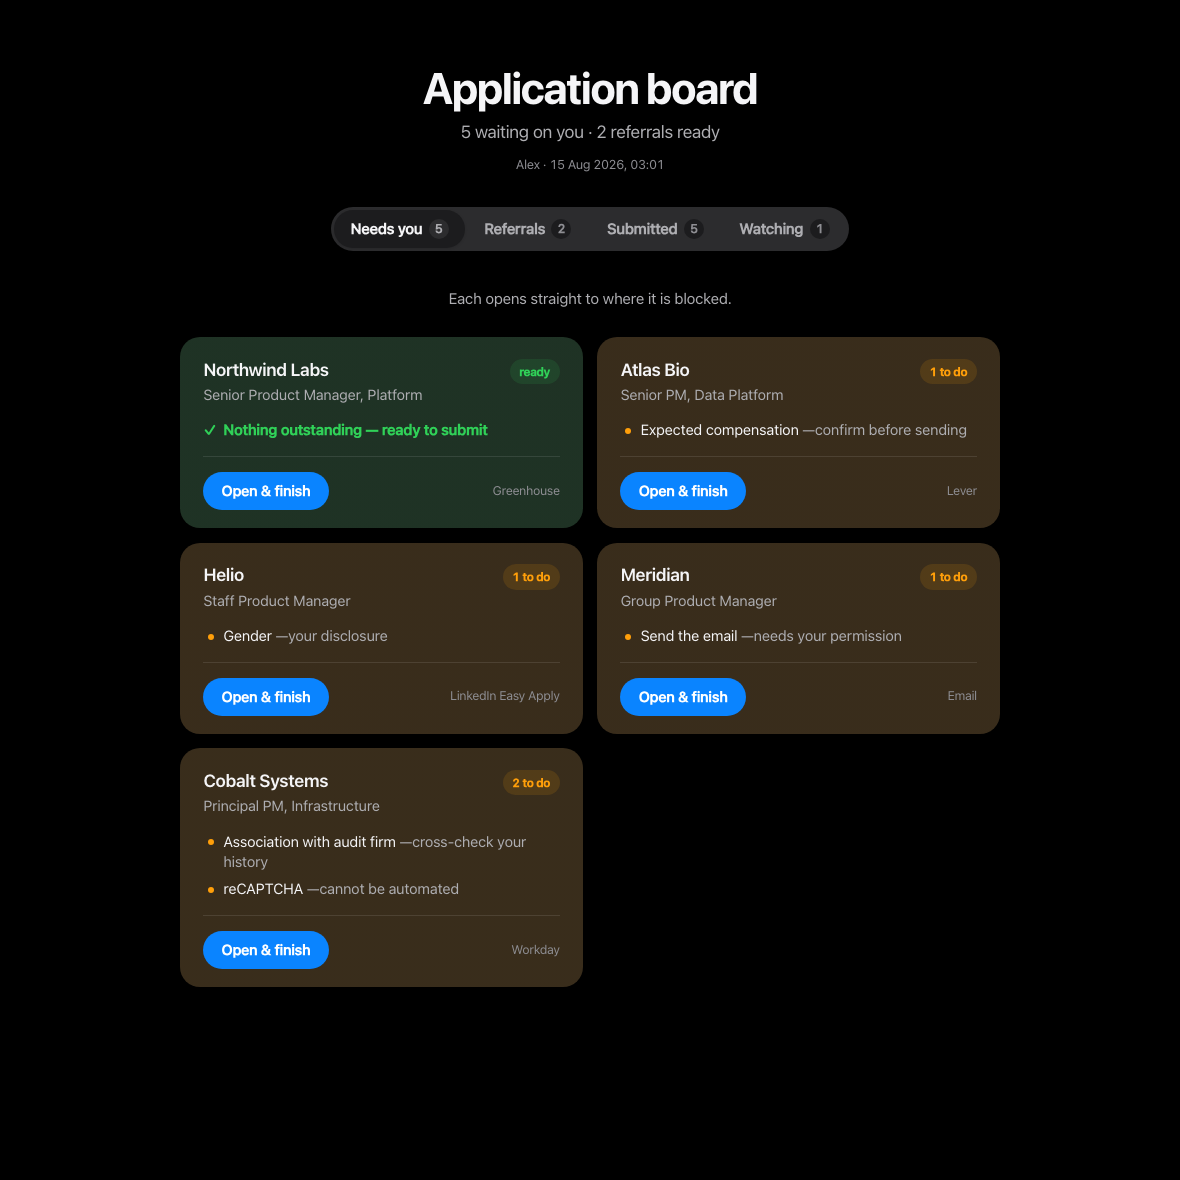
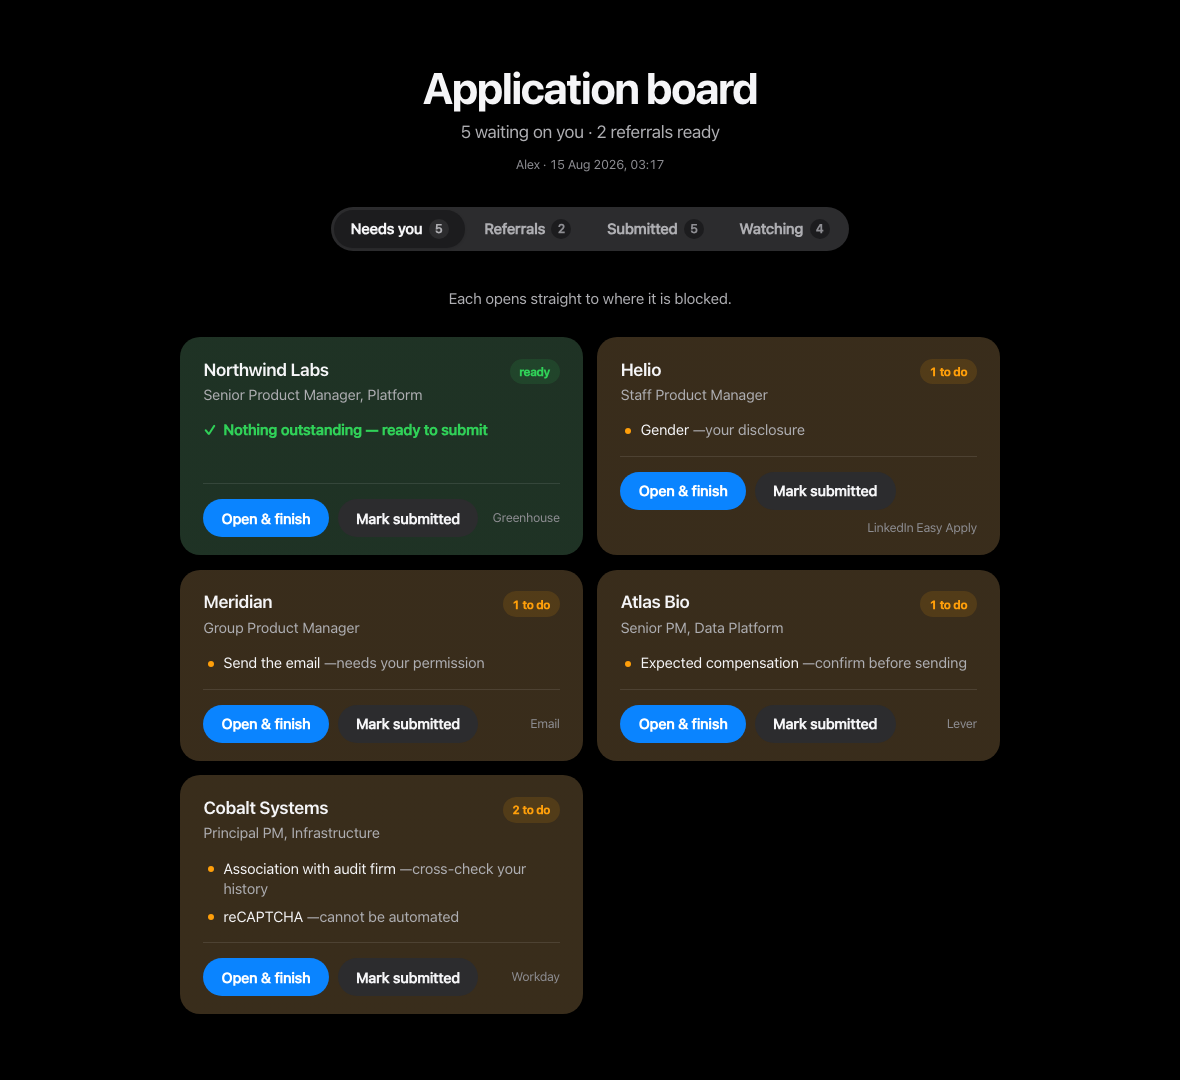
Rewrite README: picture-led, roughly a third the length
Three screenshots now carry the explanation of what the tool does, with
prose reduced to captions. The failure-mode section becomes a table, since
it was a list of paired cause and response all along.

Changed region(s): [[0.1525, 0.0611, 0.8542, 0.9472]]

diff --git a/README.md b/README.md
@@ -1,232 +1,69 @@
-# job-application
+# apply-for-me
 
-A [Claude Skill](https://docs.claude.com/en/docs/claude-code/skills) that runs your job search as a **standing agent** rather than a one-off command: it reads your resume once, interviews you once, then fills applications across LinkedIn Easy Apply, Greenhouse, Lever, Ashby, Workday, iCIMS, Google Careers and company forms, surfaces the people in your network who could refer you, and hands you a dashboard of what still needs a human.
-
-Every rule in it exists because something went wrong without it during real use. Those failure modes are documented below, since they are the interesting part.
-
-![The dashboard's Needs you tab, showing five applications with what is blocking each one](docs/needs-you.png)
-
----
-
-## Why this exists
-
-Job applications are a bad fit for naive automation. They are:
-
-- **Irreversible.** A wrong salary figure or an overstated year count follows you into interviews.
-- **Legally loaded.** Auditor-independence checks, government-official declarations, work authorization, truth attestations. These are compliance questions wearing the costume of screening questions.
-- **Deceptively labelled.** Titles routinely misrepresent the job.
-- **Full of hard stops.** CAPTCHAs, account creation, native OS file pickers.
-
-The temptation is to build something that blasts out applications. This skill deliberately does not. It optimises for *fewer interruptions* rather than *no human*, and it treats "never fabricate an answer" as the constraint that everything else bends around.
-
----
-
-## Install
+A [Claude Skill](https://docs.claude.com/en/docs/claude-code/skills) that runs your job search as a standing agent. Reads your resume once, interviews you once, then searches, applies, and hands you a board of what still needs a human.
 
 ```bash
 git clone https://github.com/YoursSarcastically/apply-for-me.git ~/.claude/skills/job-application
 ```
 
-Or drop the `job-application/` folder into `~/.claude/skills/`. Claude picks it up on the next session.
-
-Requires Python 3.9+ (standard library only, no dependencies) and a browser integration such as Claude in Chrome.
+Needs Python 3.9+ and the Claude for Chrome extension.
 
 ---
 
-## How it works
+## What you get
 
-```
-job-application/
-├── SKILL.md                  the instructions Claude follows
-├── scripts/
-│   ├── store.py              local profile, answers, history, sessions
-│   └── dashboard.py          builds the status artifact
-└── references/
-    ├── platforms.md          per-ATS quirks and expected blockers
-    └── storage.md            storage contract and confidence model
-```
+### Every blocked application, and exactly what is blocking it
 
-### Six phases
+![Needs you tab showing five application cards, each naming the specific missing field](docs/needs-you.png)
 
-**1. Intake, once.** You give it a resume. It extracts what it can, shows you what it got, then asks the questions resumes never answer but forms always demand: fixed versus total compensation, notice period, work authorization *per country*, relocation, per-role cities, education months, past audit-firm association, demographic preferences.
+Green means ready to submit. Each card names the field a human has to answer and why, then opens straight to that page. **Mark submitted** greys it out when you are done.
 
-That last cluster is the point. Most mid-application interruptions are avoidable — the information was knowable upfront. Front-loading it is what makes the rest low-touch.
+### Who can refer you, with the message already written
 
-**2. Finding roles.** Sweeps **many channels, not one site**: general aggregators, startup-native boards (YC, Wellfound, HN Who's Hiring), regional boards, and company ATS boards directly via `site:job-boards.greenhouse.io` style searches. Then **reads each full posting before shortlisting**, because titles lie (see below).
+![Referrals tab showing a first-degree contact and a network pool, each with a drafted message and copy button](docs/referrals.png)
 
-Searching only LinkedIn produces a specific false conclusion: that a role type barely exists, when the openings are on boards LinkedIn never indexed. A real sweep for senior AI product roles returned 1,000+ LinkedIn results that were mostly banking and insurance PM roles, while the AI-native openings sat elsewhere.
+A referral beats being applicant 201. It surfaces the connection *before* filling the form, drafts the note, and waits for you to send it.
 
-Public boards still have a ceiling, so the skill also covers what search structurally cannot reach:
+### Roles it found, and why each one is there
 
-- **Log in before sweeping.** Instahyre, Naukri, Cutshort and Wellfound show a fraction of listings to logged-out visitors. A logged-out search still returns results, just a thin and unrepresentative slice, which is what makes this easy to miss. Cheapest and largest single unlock.
-- **VC portfolio boards.** Funds publish job pages across their whole portfolio, carrying roles aggregators never see, skewed toward well-funded startups.
-- **Catch postings in their first hour.** Applicant count matters more than almost any other signal: three applicants at one hour old is a different proposition from 200+ at two weeks. Sort by recent, not relevance, since relevance ranking buries new postings.
-- **Recruiter outreach.** A large share of senior roles are filled before anything is published. No scraper reaches these. It is a structural limit, not a gap to engineer around.
+![Watching tab showing four roles with a note explaining why each was kept](docs/watching.png)
 
-The skill is also honest about stopping. When new searches keep returning roles already seen, it says so — past that point volume is motion, not progress, and the return shifts to converting what has already been found.
-
-**3. Referrals first.** For any role where you have a connection, it surfaces that *before* filling the form and drafts the outreach. A referral on a role with 200 applicants beats being applicant 201.
-
-**4. Filling.** Identifies the ATS, reads the relevant platform notes, fills from your stored profile, verifies every few fields. Never invents. Stops at legal declarations.
-
-**5. Dashboard.** Generates a self-contained status page showing what needs you, with a direct link to each blocked page.
-
-**6. Repeat.** The natural shape is a cycle, not a session. Sweep, dedupe against history, triage, apply where nothing is blocking, park what is blocked, republish the dashboard to the same URL, report in a few lines. Run it on demand or on a schedule.
-
-Steps 1 through 5 need no input, which is the whole return on the intake phase. A cycle that interrupts three times has usually skipped something intake should have captured.
-
-### It behaves as an agent, not a handler
-
-The objective is standing: get you into a better role while spending as little of your attention as possible. That changes defaults. It carries state across sessions in the store rather than the conversation, acts without checking in inside a cycle, and will tell you when the thing you asked for is not the thing that helps — if you ask for more roles when what you need is to send three referral messages, it says so.
-
-It also knows its limits and names them rather than working around them: credentials, CAPTCHAs, legal attestations, and anything it would have to invent.
-
-### Two kinds of memory
-
-The **application store** (`~/.job-application/`) holds operational state that churns: profile, answers, history, in-progress sessions.
-
-**Claude's own memory** holds durable facts that outlive the search: standing constraints, how you want the work done, that you are looking at all. The skill writes there deliberately and does not mirror application state into it, because a memory file full of stale statuses is worse than none — it reads as current.
-
-### The confidence model
-
-The part most likely to be useful elsewhere.
-
-Every stored value carries a state:
-
-| State | Meaning | Reused silently? |
-|---|---|---|
-| `confirmed` | You said it or approved it | Yes |
-| `inferred` | Claude derived it from context | **No** — re-shown each time |
-| `missing` | Unknown | No — asks |
-| `sensitive` | Pay, visa, demographics, disability | Never — confirmed every use |
-
-`inferred` is the one that matters. When a form demands a city for a job your resume only dates, that value is a guess. Without a label, the next session cannot distinguish it from fact, and a guess quietly hardens into a claim on your applications. The label is the whole defence.
-
-Sensitive values enforce **two separate permissions**: may I use this now, and may I store it. Permission to fill is not permission to remember.
+It sweeps LinkedIn, Indeed, YC, Wellfound, HN, regional boards and company ATS boards directly, then reads each full posting, because titles lie.
 
 ---
 
-## What went wrong to produce these rules
+## Why it works this way
 
-### Closing a form submitted it
+Every rule came from something going wrong in real use.
 
-On a LinkedIn Easy Apply flow with a Greenhouse backend, clicking the modal's **X to close** submitted the completed application. The assurance "I will stop before Submit" was structurally false, and a referral question that had deliberately been left blank went out unanswered.
-
-**Rule:** treat any interaction with a completed form as potentially final, verify afterwards, and never present "I won't click Submit" as a guarantee.
-
-### Titles do not describe the job
-
-- A req titled *"Product Manager, User Voice AI and Agentic Experiences"* was a feedback-ingestion platform role: APIs, serialization, distributed pipelines. No AI product ownership, and banded a level below what the title implied.
-- A posting listed **"Mumbai, Hybrid"** required **full relocation to Bangkok**, stated deep in the body.
-- *"Product Manager (Tech), $80/hr up to $1,600/week"* — AI-training data labelling.
-
-**Rule:** read the whole body before shortlisting, and surface title-body mismatches before spending effort.
-
-### Quotas are invisible until you have spent them
-
-One major employer allows **three applications per 30 days**. Nothing errors when you spend one badly — you simply have fewer chances, and no notification.
-
-**Rule:** detect quotas, raise them before committing a slot.
-
-### The employer already had stale data
-
-A careers profile still held a **two-year-old resume** under a previous job title, and the full name crammed into First Name with Last Name empty. Both would have gone out silently.
-
-**Rule:** audit prefilled ATS data before submitting.
-
-### Legal questions hide in screening sections
-
-One employer's form asked whether the candidate had **ever been associated with a named audit firm**, because that firm audits its parent company. The candidate had worked there years earlier, listed on the resume but easy to miss under a screening heading. Answering "no" would have been materially wrong, and it is an auditor-independence matter rather than a preference.
-
-**Rule:** cross-check declarations against work history, surface findings, let the human answer.
-
-### Referral signals were the best data on the page and nearly ignored
-
-One role had a **first-degree connection who was a Senior PM on that exact team**. Another had **eight connections at the company including the recruiter**. A third had **31 connections**. All of it sat unused next to a form.
-
-**Rule:** referral first, application second.
-
-### Every platform fails differently
-
-| Platform | Blocker |
+| What happened | What it does now |
 |---|---|
-| Greenhouse | reCAPTCHA at submit |
-| LinkedIn Easy Apply | iframe selects; **closing can submit** |
-| Google Careers | native OS file picker; 3-per-30-days |
-| iCIMS · SuccessFactors · Amazon | account creation |
-| Google Forms | Drive picker for uploads |
-
-**Rule:** identify the ATS, state the expected blockers upfront, stop guessing twenty actions in.
-
----
-
-## Storage
-
-Everything lives in `~/.job-application/`, owner-readable only (`0600`).
-
-```
-profile.json         identity, work history, education, skills
-answers.json         reusable answers with confidence states
-applications.jsonl   append-only event log
-sessions/            resumable in-progress applications
-```
-
-Reached only through `scripts/store.py`:
-
-```bash
-python3 scripts/store.py init
-python3 scripts/store.py profile-get
-python3 scripts/store.py answer-find --question "What is your notice period?"
-python3 scripts/store.py history-status      # latest event per application
-python3 scripts/store.py session-list
-```
-
-`history-status` is the guard against reapplying. `reviewed` means a form reached final review; `completed` means submission was confirmed or observed. Keeping them distinct is what prevents duplicates weeks later — and when it genuinely cannot tell, it records `reviewed` and says so, because an honest gap beats a confident wrong entry.
-
-Sessions store field *descriptions*, never values. Values live in the answer store where the confidence machinery is.
-
----
-
-## The dashboard
-
-```bash
-python3 scripts/dashboard.py --out dashboard.html
-```
-
-Self-contained HTML, no network calls, light and dark themes, four tabs.
-
-The landing tab is whatever is blocking you. Each card names the specific missing field and why it needs a human, and ends in a button that opens the exact page.
-
-![The Referrals tab, showing a first-degree contact with a drafted message and a copy button](docs/referrals.png)
-
-The Referrals tab exists because a referral moves the odds more than another application does. Each card carries the contact, their relationship to the role, and a drafted message ready to copy.
-
-Four tabs in deliberate order:
-
-1. **Needs you** — every blocked application, exactly what is missing and why, and a button straight to the page.
-2. **Referrals** — who to contact, with the drafted message and a copy button.
-3. **Submitted** — so nothing gets applied to twice.
-4. **Watching** — found, not started.
-
-A "Not confirmed submitted" panel appears when something reached review without an observed confirmation, because an honest gap is more useful than a confident wrong entry.
+| Closing a form's modal **submitted** the application | Treats any interaction with a filled form as potentially final, then verifies |
+| A role titled *"AI and Agentic Experiences"* was a data-pipeline job. One listing said **"Mumbai"**, the body required moving to **Bangkok** | Reads the full body before shortlisting |
+| An employer allows **3 applications per 30 days**, silently | Detects quotas, raises them before spending one |
+| A careers profile still held a **two-year-old resume** under an old title | Audits prefilled ATS data first |
+| A form asked about association with an **audit firm**; the candidate had worked there years earlier | Cross-checks declarations against work history, then hands them back |
+| Searching one job board suggested a role type barely existed | Sweeps many channels, and reports which returned nothing |
 
 ---
 
 ## What it will not do
 
-Not limitations to route around — deliberate boundaries:
+Boundaries, not gaps: type passwords, create accounts, solve CAPTCHAs, send messages without per-message permission, answer demographic questions, tick truth attestations, or invent a value to fill a required field.
 
-- **Type passwords or create accounts.** Authentication is yours.
-- **Solve CAPTCHAs.**
-- **Send email or messages without per-message permission.** It drafts and waits.
-- **Answer demographic questions** unless you asked it to during intake.
-- **Tick truth attestations.** Certifying accuracy is yours, especially when any field holds inferred data.
-- **Invent a fact to fill a required field.** It leaves it and tells you.
-
-On bulk applying: LinkedIn's User Agreement prohibits automated access, and rapid bulk submission is the pattern their anti-automation systems act on. A restricted account mid-search costs more than the typing saved. This skill stops before Submit by default for that reason as well as the obvious one.
+Where a fact is unknown, it leaves the field and tells you.
 
 ---
 
-## License
+## Under the hood
+
+```
+SKILL.md              the instructions Claude follows
+scripts/store.py      profile, answers, history, sessions
+scripts/dashboard.py  builds the board
+references/           per-ATS quirks, sourcing channels, storage contract
+```
+
+State lives in `~/.job-application/`, owner-readable only. Every stored value carries a confidence state, `confirmed` / `inferred` / `missing` / `sensitive`, so a guess is never silently reused as a fact. Sensitive values need separate permission to use and to store.
 
 MIT.
